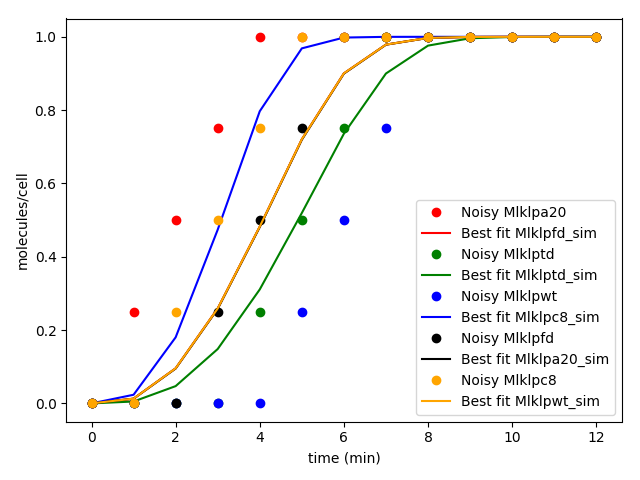
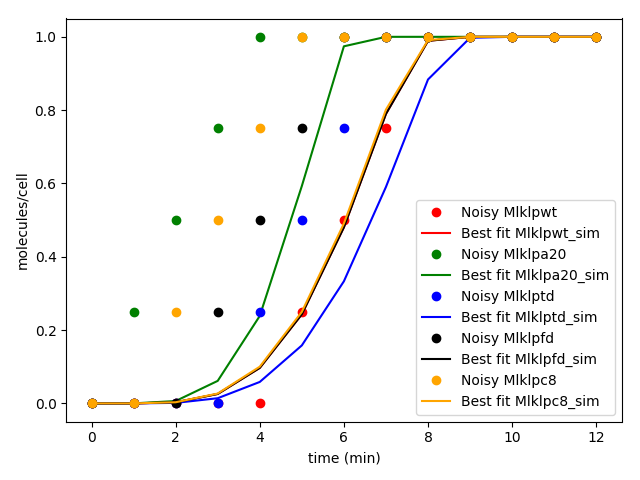
fixing ordered dictionary for ordering of sim and data for calibration

diff --git a/simplepso/examples/necro_pso_kd.py b/simplepso/examples/necro_pso_kd.py
@@ -16,6 +16,7 @@ import scipy.interpolate
 from pysb.integrate import *
 
 from simplepso.pso import PSO
+import collections
 
 model.enable_synth_deg()
 obs_names = ['MLKLa_obs']
@@ -59,7 +60,11 @@ fdy = np.array([0., 0., 0.,0.25, 0.5, 0.75, 1., 1., 1., 1., 1., 1., 1.])
 c8x = np.array([0.,   1.,   2.,   3.,   4.,   5.,   6.,   7.,   8.,   9.,  10., 11.,  12.])
 c8y = np.array([0.,0., 0.25, 0.5, 0.75, 1., 1., 1., 1., 1., 1., 1., 1.])
 
-data = {'wt': wty, 'a20': a20y, 'td': tdy, 'fd': fdy, 'c8': c8y}
+data = collections.OrderedDict([('wt', wty), ('a20', a20y), ('td', tdy) ,('fd', fdy), ('c8', c8y)])
+# data = collections.OrderedDict()
+# data = {'wt': wty, 'a20': a20y, 'td': tdy, 'fd': fdy, 'c8': c8y}
+# data = collections.OrderedDict(sorted(data.items(), key = lambda t:t[1]))
+
 
 ydata_norm = wty
 
@@ -112,7 +117,10 @@ def display(parameter_2):
     ysim_norm33 = normalize(ysim_array33)
     ysim_norm44 = normalize(ysim_array44)
     ysim_norm55 = normalize(ysim_array55)
-    ysim = {'wt_sim': ysim_norm11, 'a20_sim': ysim_norm22, 'td_sim': ysim_norm33, 'fd_sim': ysim_norm44, 'c8_sim': ysim_norm55}
+
+
+    ysim = collections.OrderedDict([('wt_sim', ysim_norm11), ('a20_sim', ysim_norm22), ('td_sim', ysim_norm33), ('fd_sim', ysim_norm44), ('c8_sim', ysim_norm55)])
+    # ysim = collections.OrderedDict(sorted(ysim.items(), key=lambda t: t[1]))
 
     # solver1.run(param_values)
     # ysim_array_2 = solver.yobs['MLKLa_obs']
